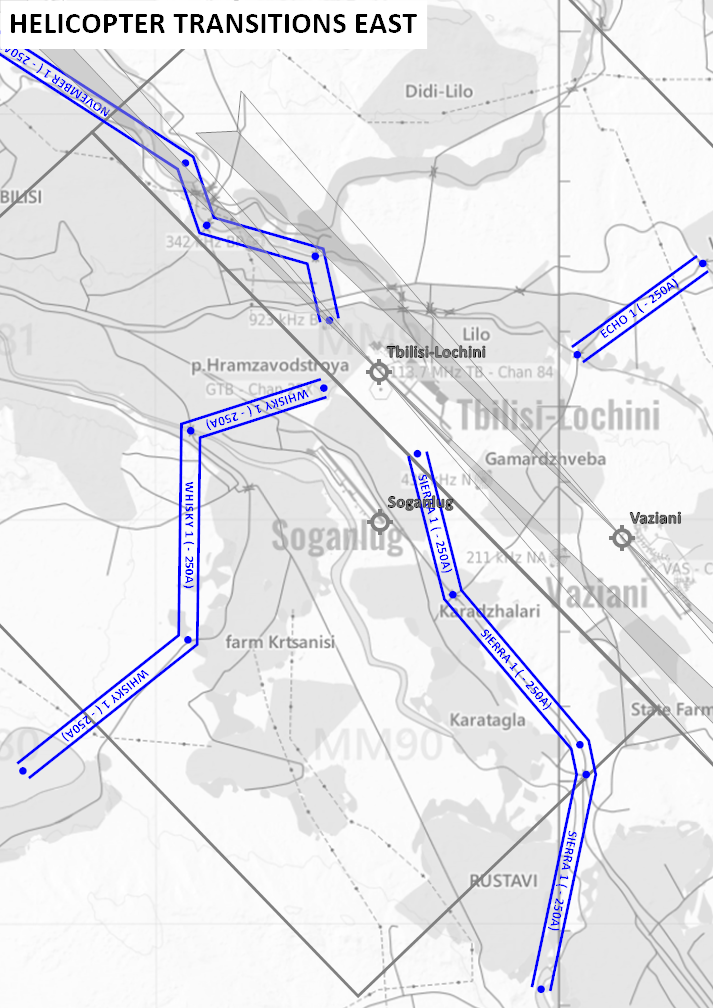
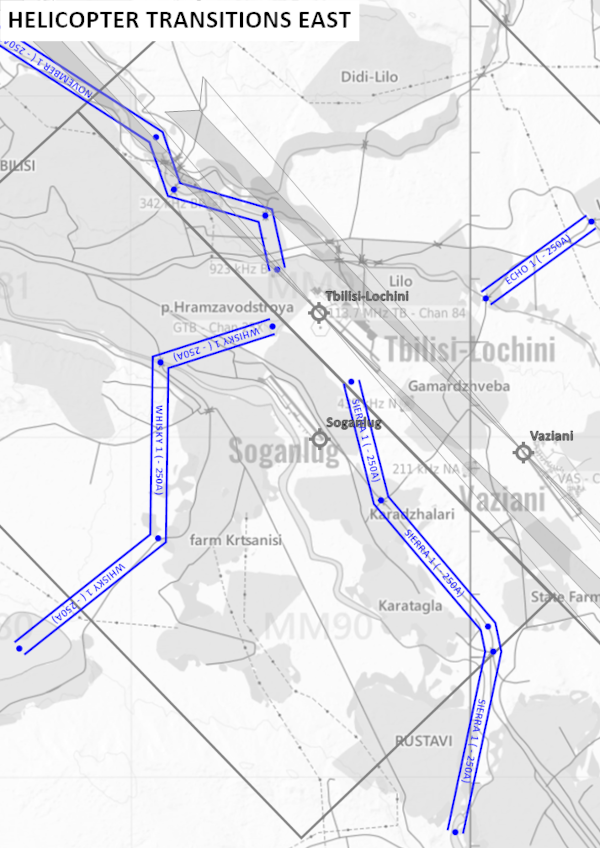
Resizing and aligning images.

diff --git a/SOPs/801.md b/SOPs/801.md
@@ -22,16 +22,22 @@ Refer to you pre-prepared kneeboards for the latest information.
 Flight from UGTB should be done either under VFR departure rules or by following an approved IFR departure plate.
 In most cases, if departing to the Tsalka MOA and R6909 range, use of the LAGAS ONE(1) departure will be preferred.
 
-![LAGAS1](LAGAS1.png)
+<p align="center">
+  <img rc="LAGAS1.png">
+</p>
 
 For all other departures to the west, it's likely that the MUKHRANI TWO(2) departure to join the B-143 airway will be preferred.
 
-![MUKHRANI2](MUKHRANI2.png)
+<p align="center">
+  <img rc="MUKHRANI2.png">
+</p>
 
 If departing under VFR conditions, be cautious or rotary traffic departing to the north and to the west.
 Standard rotary low-level routes have been assigned as shown below.
 
-![RW routes](RW.png)
+<p align="center">
+  <img rc="RW.png">
+</p>
 
 ### Approaches
 
@@ -45,7 +51,10 @@ For pilots who are less comfortable with IFR approaches, you may request vectors
 By default, 801 NAS pilots will follow the procedure for a Fixed Nozzle Slow Landing (FNSL) if arriving on the main runway at UGTB.
 The detailed procedure for a FNSL is found at A1-AV8BB-NFM-000, section 7.6.5.1.1., however a quick reference image is below as an aide-memoire.
 
-![FNSL](FNSL.png)
+<p align="center">
+  <img rc="FNSL.png">
+</p>
+
 
 ## Field Carrier Landing Practice (FCLP)
 
@@ -55,7 +64,9 @@ The Ski-Ramp may be used at any time by 801NAS pilots as an alternate means of t
 The procedure for the Ski-Ramp will always be in accordance with NAVAIR 00-80T-111.
 An extract of the relevant day pattern procedure is included below for reference.
 
-![Case 1](CASE1.png)
+<p align="center">
+  <img rc="CASE1.png">
+</p>
 
 ## Austere Strips
 
@@ -64,6 +75,8 @@ The procedures to be followed in these conditions are found in A1-AV8BB-NFM-000.
 When operating at density altitudes above sea level, it is imperative that the max dry and max wet takeoff and landing weights are calculated as applicable and not exceeded at any time.
 A reference graphic for the approach to a VL is shown below.
 
-![VL](VL.png)
+<p align="center">
+  <img rc="VL.png">
+</p>
 
 
